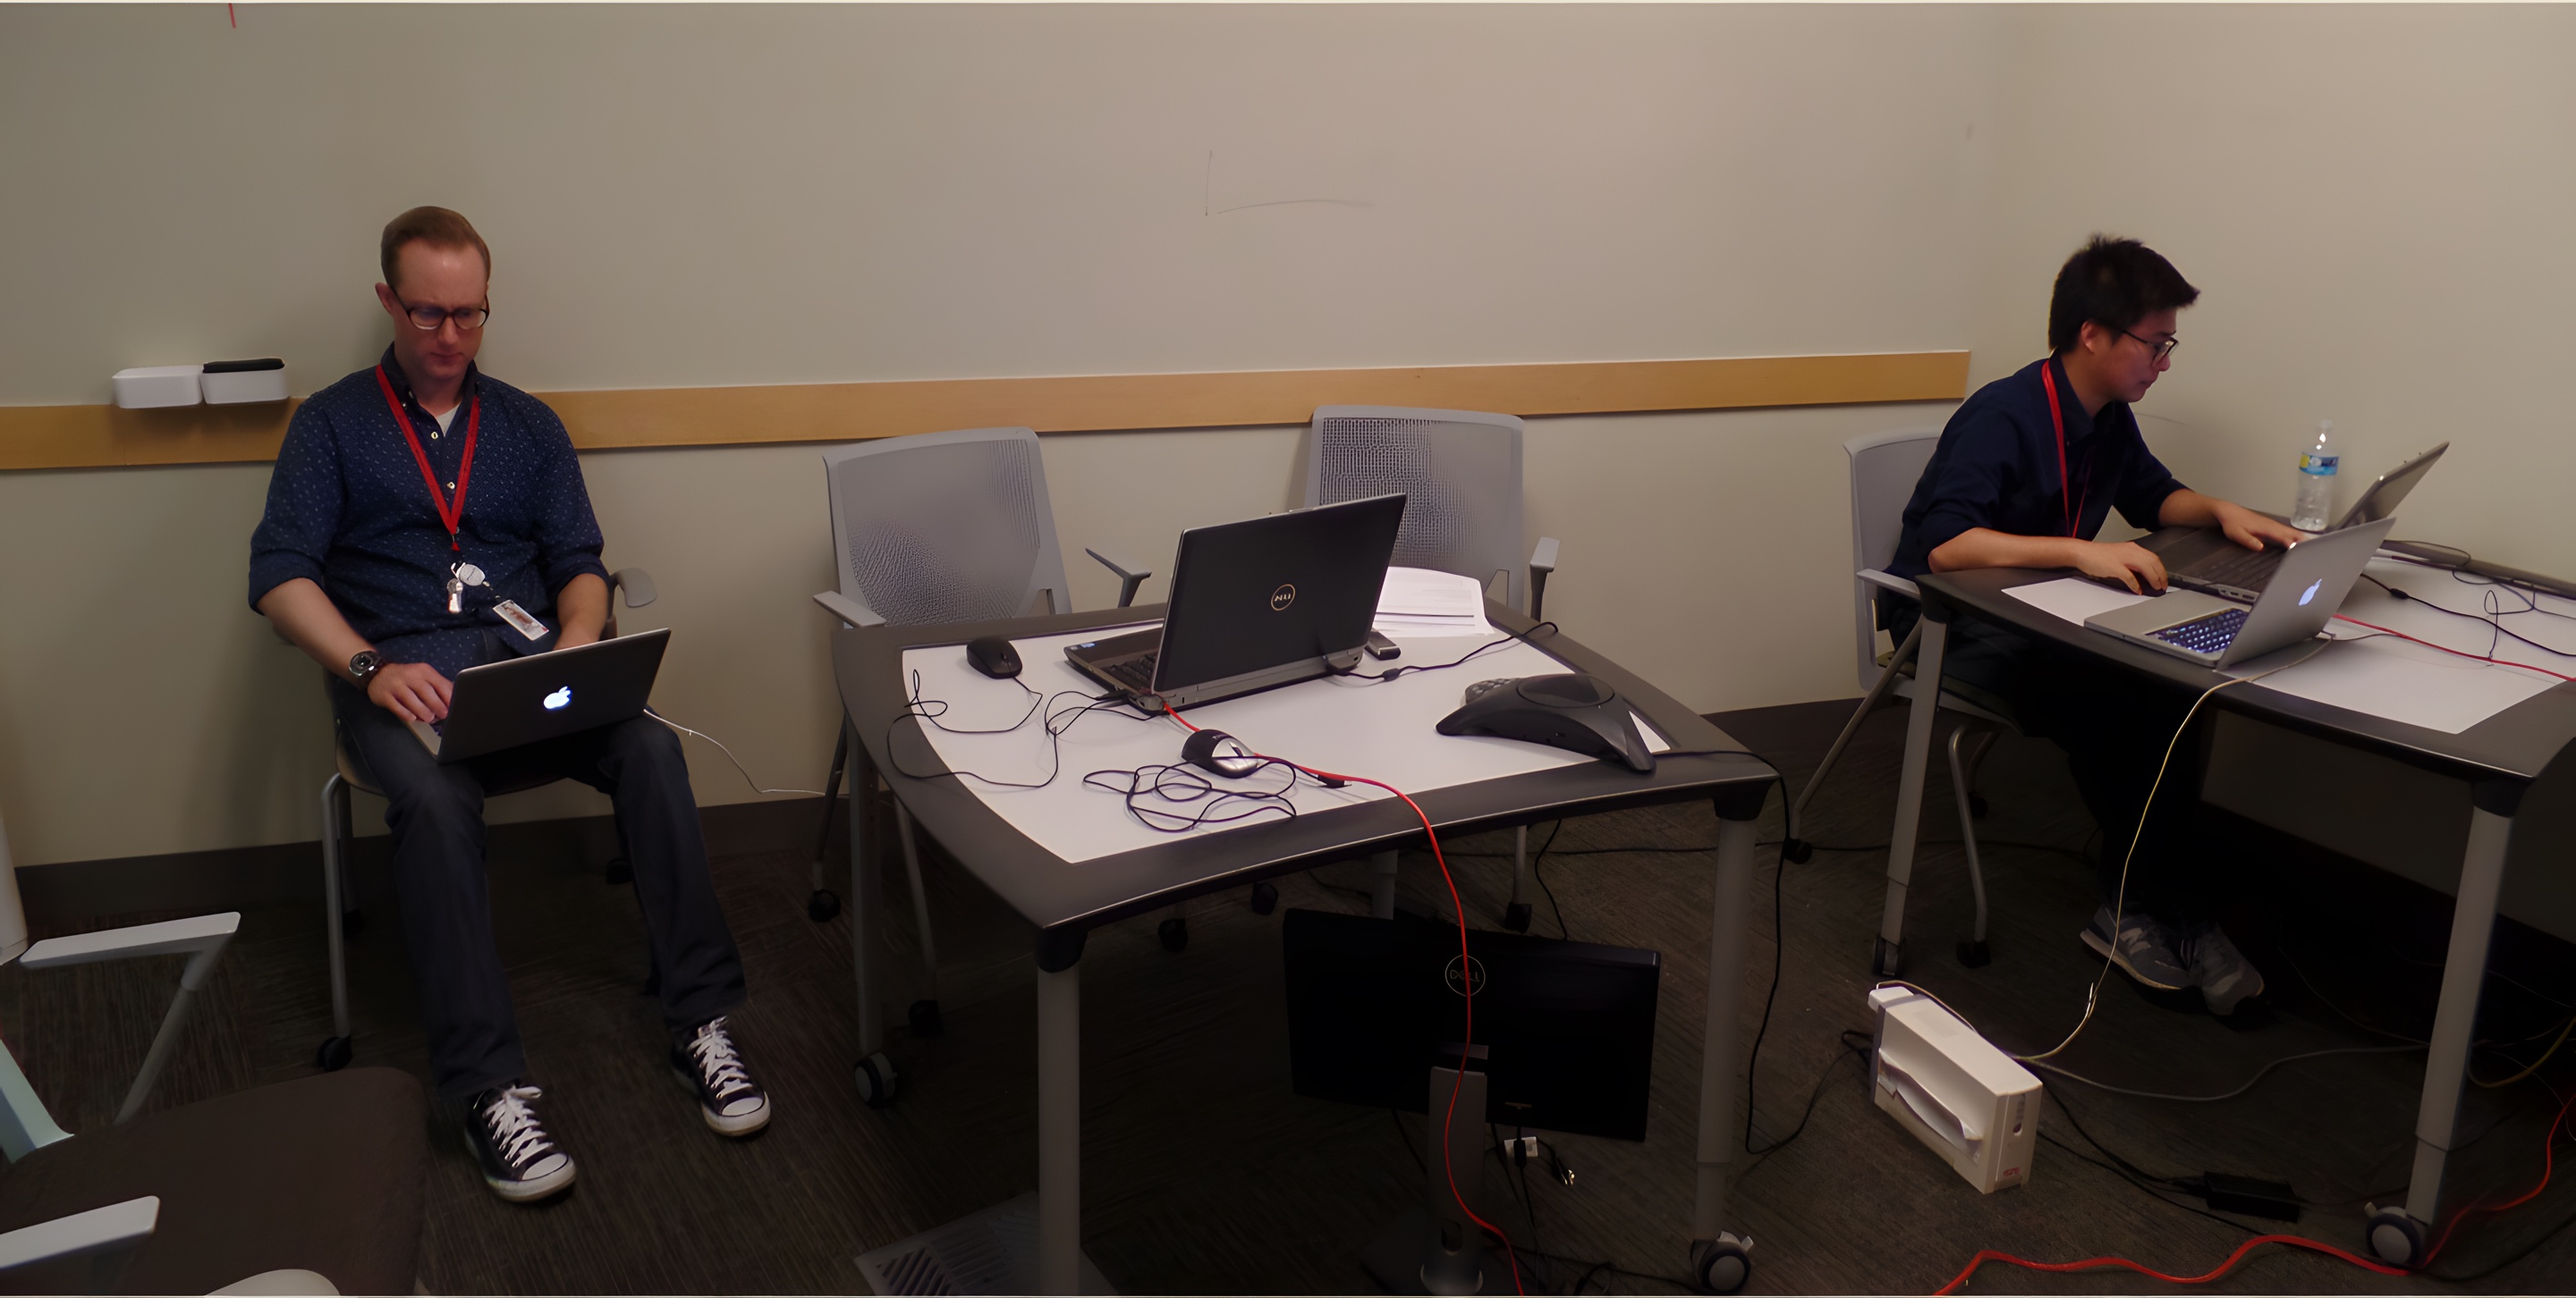
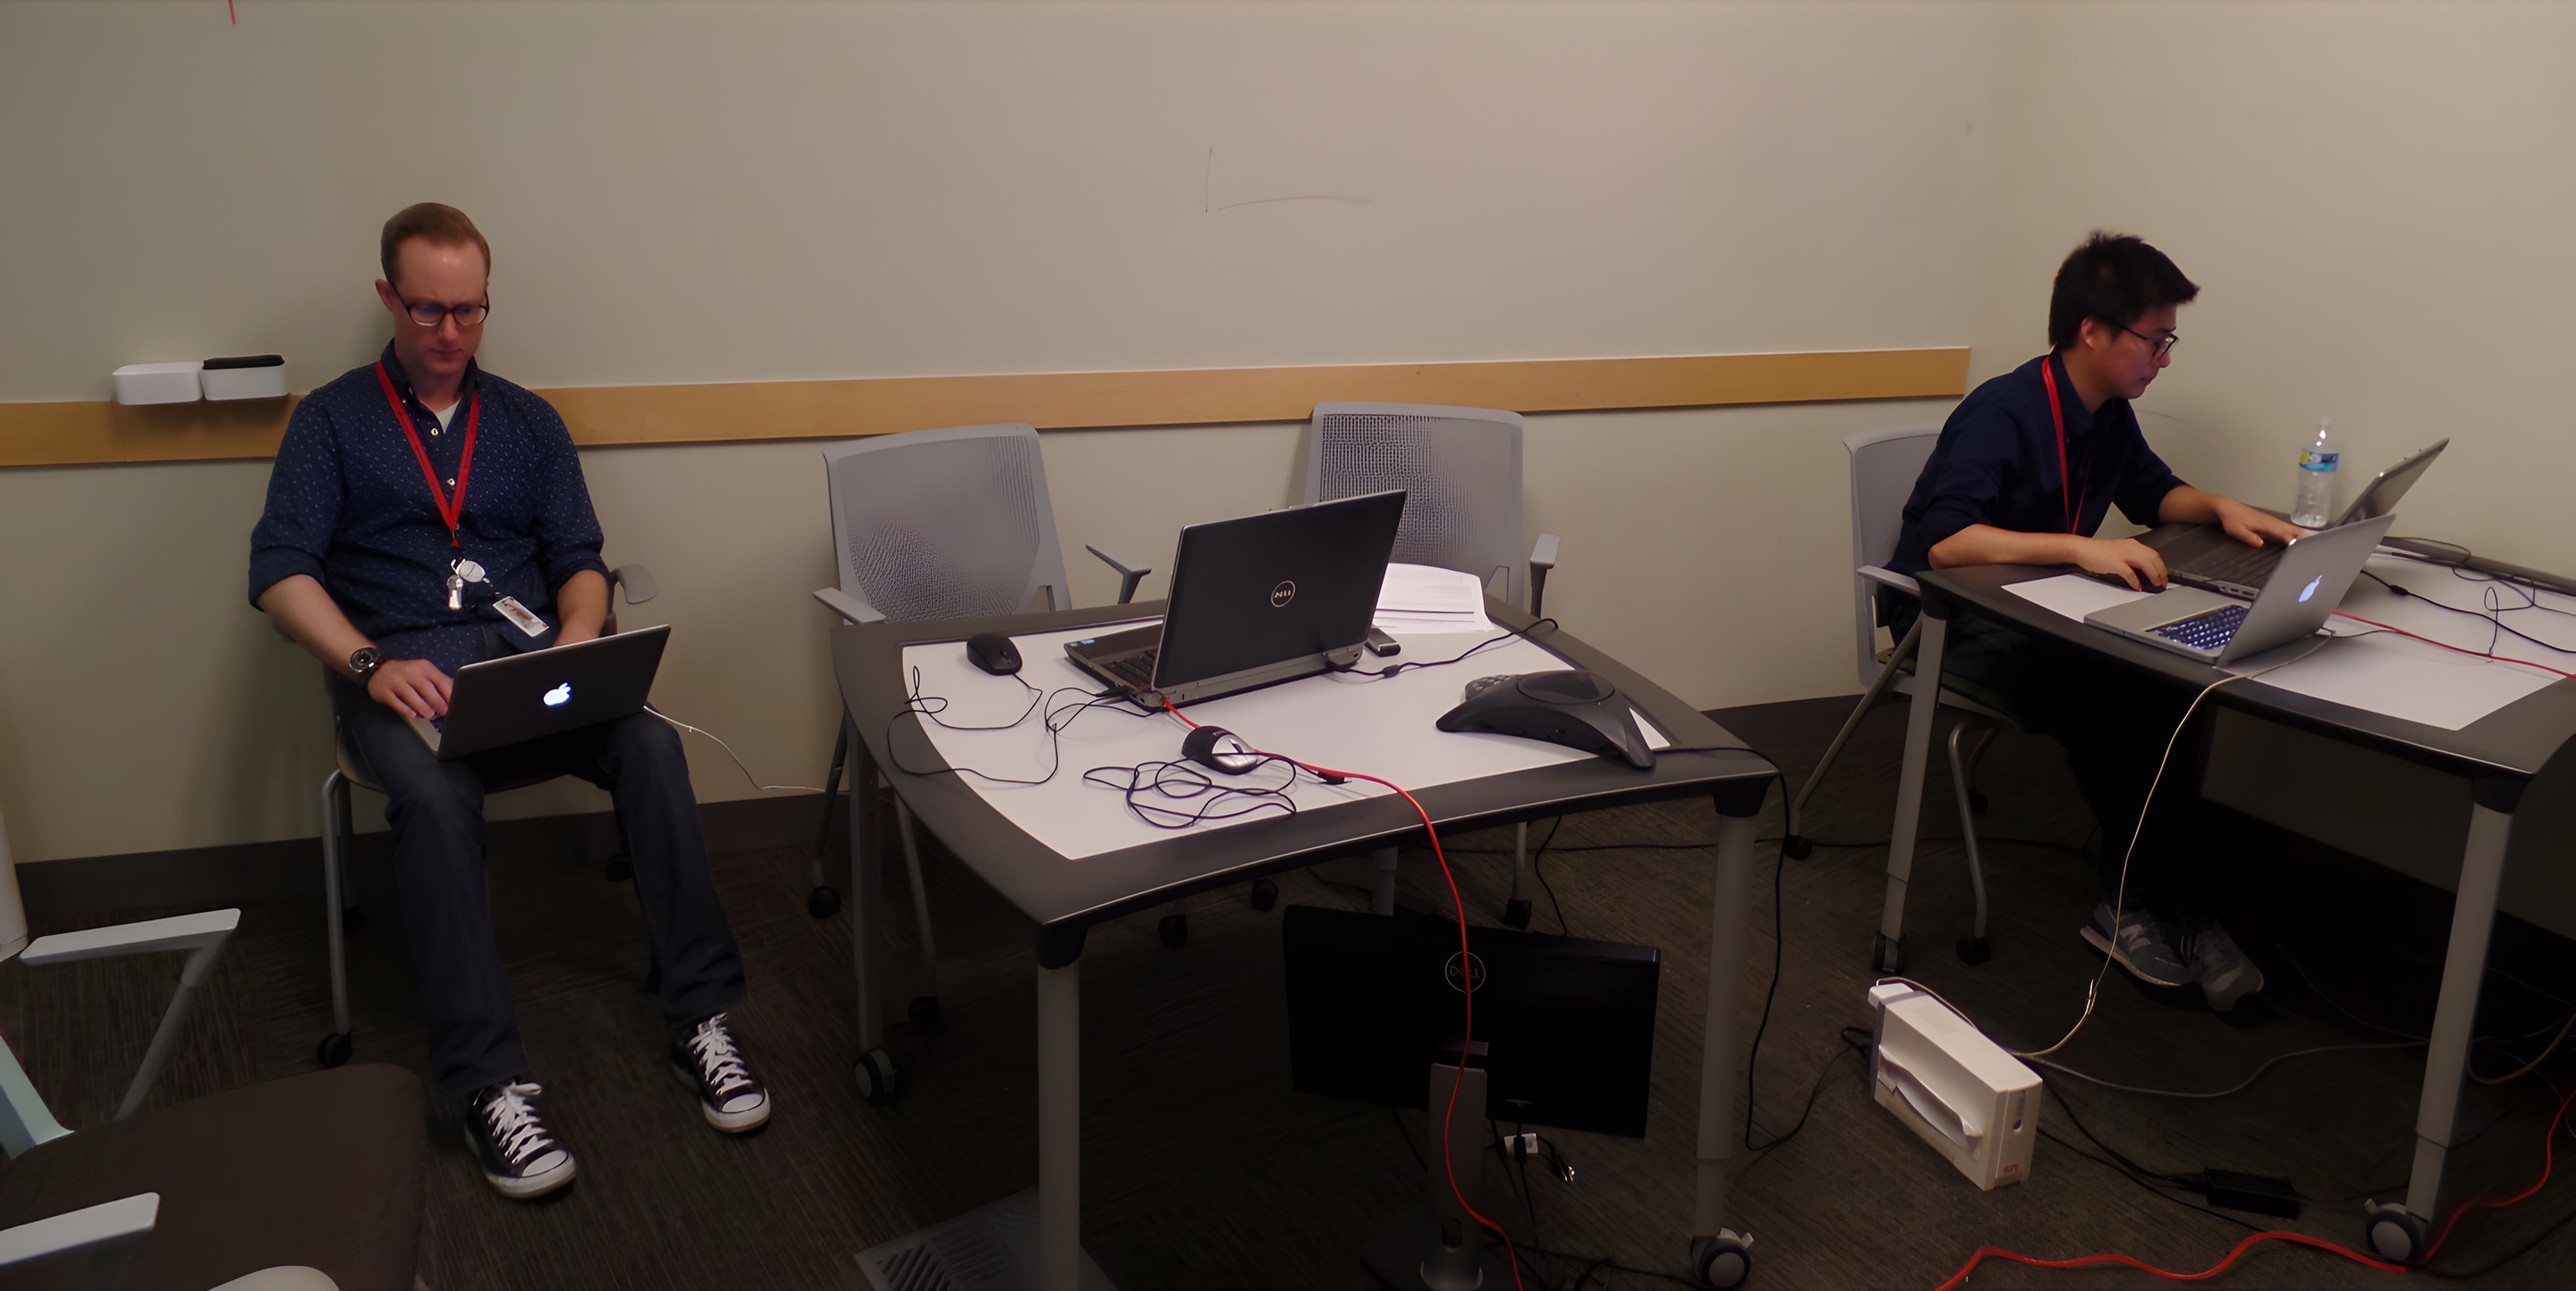
Small fixes from the Round 2 follow-up
- Twilio: drop the bracketed aside from the Finding 02 quote.
- Rackspace: crop the light lines off the usability photo's top and
  bottom edges (4 pixel rows each, now 2880 x 1444).
- About: name Codex and GitHub next to Claude Code in How I work.
- Code notes: the token-built diagrams are final schematics, the
  competitor screens are real captures, no screenshot placeholder
  renders on Portal, and a tall image can run under the lightbox close
  button on a short or narrow window.

diff --git a/src/styles/global.css b/src/styles/global.css
@@ -82,7 +82,8 @@ dialog.lightbox::backdrop {
 }
 .lightbox-close {
   /* Fixed to the viewport corner (the dialog is in the top layer, so fixed
-     resolves against the viewport) so the control never overlaps the image. */
+     resolves against the viewport), clear of the image in most windows. On a
+     short or narrow window a tall image can still run under it. */
   position: fixed;
   top: var(--space-5);
   right: var(--space-5);
